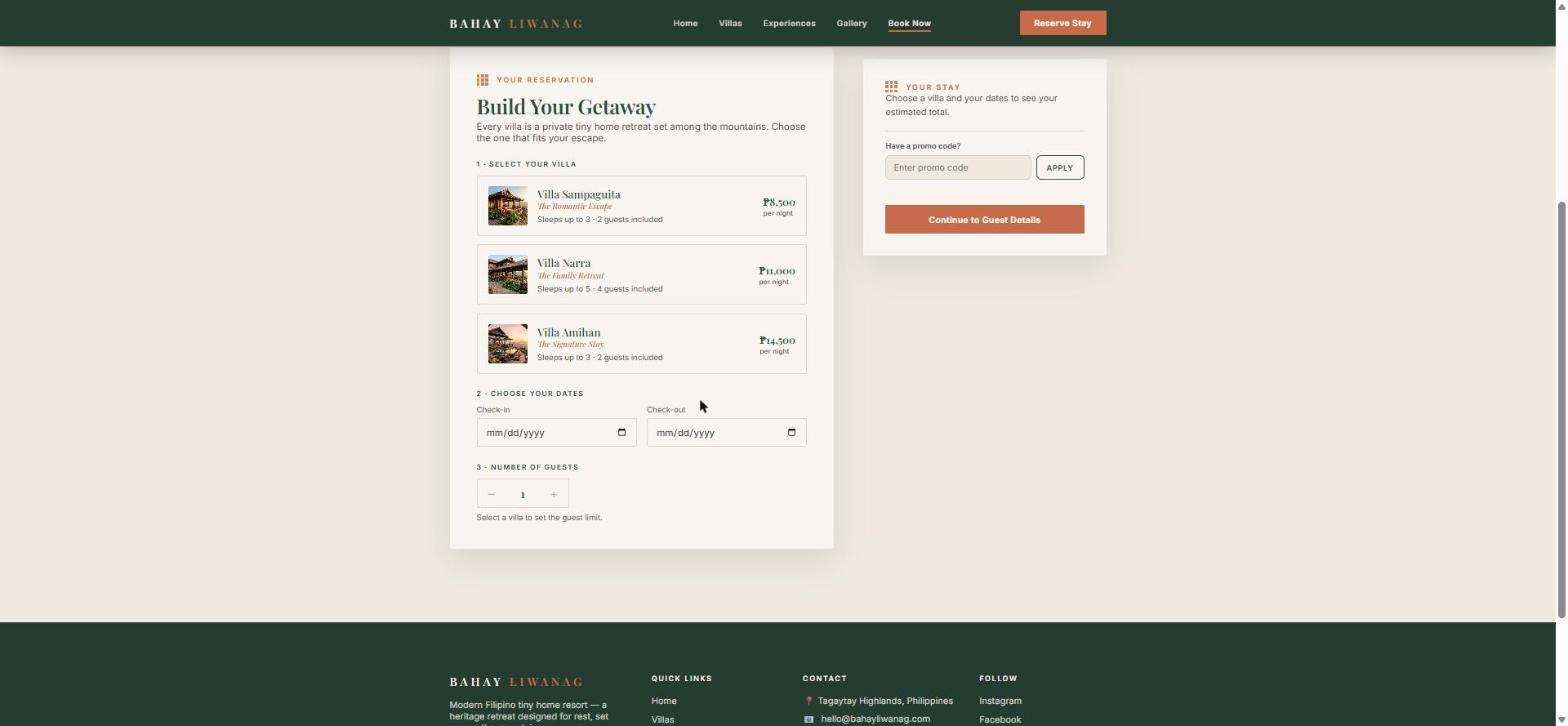
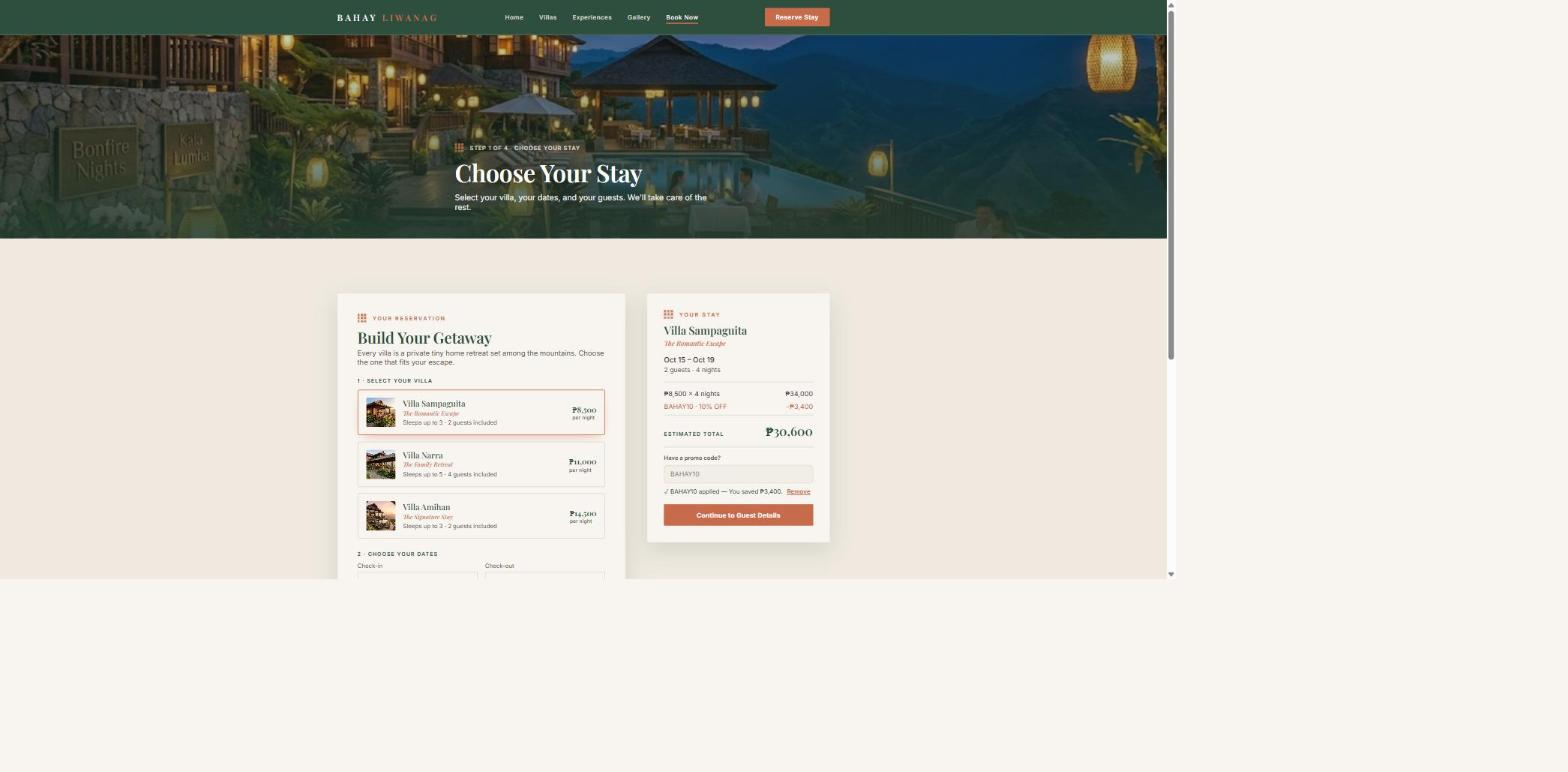
feat: refresh Bahay Liwanag case study screenshots

diff --git a/src/app/projects/bahay-liwanag/page.tsx b/src/app/projects/bahay-liwanag/page.tsx
@@ -4,7 +4,6 @@ import Navbar from "@/components/home/Navbar";
 import Footer from "@/components/home/Footer";
 import Container from "@/components/layout/Container";
 import Button from "@/components/ui/Button";
-import BrowserFrame from "@/components/ui/BrowserFrame";
 import CaseStudyHero from "@/components/case-study/CaseStudyHero";
 import CaseStudySection from "@/components/case-study/CaseStudySection";
 import ShotFigure from "@/components/case-study/ShotFigure";
@@ -86,40 +85,6 @@ const TEST_STEPS = [
   "Lead popup trigger, suppression, and the 10% Off Welcome email",
   "Responsive layout on mobile for the booking flow and the lead popup",
 ];
-
-/* ── Local building blocks ────────────────────────────────────────────────── */
-
-/** A BrowserFrame placeholder for a screenshot not yet captured. */
-function ShotPlaceholder({
-  url,
-  label,
-  note,
-  aspect = "aspect-[16/10]",
-}: {
-  url: string;
-  label: string;
-  note?: string;
-  aspect?: string;
-}) {
-  return (
-    <div className="min-w-0">
-      <BrowserFrame url={url} className="shadow-soft">
-        <div className={cx("relative w-full overflow-hidden bg-surface", aspect)}>
-          <div className="absolute inset-0 bg-[radial-gradient(circle_at_top,_rgba(163,122,180,0.14),_transparent_45%),linear-gradient(135deg,_rgba(93,66,74,0.08),_transparent_68%)]" />
-          <div className="absolute inset-0 flex items-center justify-center p-6">
-            <div className="relative z-10 max-w-md rounded-[var(--radius-md)] border border-border bg-background/75 px-4 py-3 text-center shadow-xs backdrop-blur-sm">
-              <p className="font-mono text-[0.62rem] font-semibold uppercase tracking-[0.18em] text-muted-foreground">
-                Placeholder
-              </p>
-              <p className="mt-1.5 text-sm font-semibold text-foreground">{label}</p>
-              {note && <p className="mt-1 text-xs text-foreground/70">{note}</p>}
-            </div>
-          </div>
-        </div>
-      </BrowserFrame>
-    </div>
-  );
-}
 
 /* ── Page ─────────────────────────────────────────────────────────────────── */
 
@@ -230,9 +195,9 @@ export default function BahayLiwanagCaseStudy() {
                 </p>
                 <ShotFigure
                   src="/images/bahay-liwanag/bahay-liwanag-booking-details.png"
-                  alt="Booking Details page showing the three villa cards with pricing, a date and guest picker, and a promo-code field"
-                  url="hankerism.github.io/bahay-liwanag/book-now"
-                  caption="Villa cards, pricing, dates, guest count, and the BAHAY10 promo field — live."
+                  alt="Booking Details page with Villa Sampaguita selected, dates and guest count set, and the BAHAY10 promo code applied showing a discounted total"
+                  url="lets.controlyouraudience.com/preview/HIHrGr20tLK7zGmx2Vop"
+                  caption="Villa selected, dates and guests set, BAHAY10 applied — the live pricing summary updates in real time."
                   priority
                 />
               </div>
@@ -246,7 +211,12 @@ export default function BahayLiwanagCaseStudy() {
                   <p className="mb-3 font-mono text-xs font-semibold uppercase tracking-widest text-accent-hover">
                     Step 2 · Guest Details
                   </p>
-                  <ShotPlaceholder url="bahay-liwanag/book-now" label="Guest Details Form" note="Native GHL form — screenshot pending" />
+                  <ShotFigure
+                    src="/images/bahay-liwanag/bahay-liwanag-guest-details.png"
+                    alt="Guest Details step — a native GHL form collecting first name, last name, phone, email, and a guest note, with the reservation summary alongside"
+                    url="lets.controlyouraudience.com/preview/Gi2Ai1tFZaNNATn5yifG"
+                    caption="The native GHL form — First Name, Last Name, Phone, Email, and a guest note."
+                  />
                 </div>
               </Reveal>
               <Reveal y={12} delay={90}>
@@ -254,7 +224,12 @@ export default function BahayLiwanagCaseStudy() {
                   <p className="mb-3 font-mono text-xs font-semibold uppercase tracking-widest text-accent-hover">
                     Step 3 · Demo Payment
                   </p>
-                  <ShotPlaceholder url="bahay-liwanag/book-now" label="Demo Payment Step" note="Portfolio demo — no real payment processor" />
+                  <ShotFigure
+                    src="/images/bahay-liwanag/bahay-liwanag-payment.png"
+                    alt="Demo Payment step showing a card-entry form with GCash and Maya options, a portfolio-demo disclaimer, and the recalculated stay total with BAHAY10 applied"
+                    url="lets.controlyouraudience.com/preview/941NustibgFNLGToABY3"
+                    caption="A demo checkout — Card, GCash, or Maya — labelled plainly as a portfolio demo. No real payment is processed."
+                  />
                 </div>
               </Reveal>
               <Reveal y={12} delay={180}>
@@ -262,7 +237,12 @@ export default function BahayLiwanagCaseStudy() {
                   <p className="mb-3 font-mono text-xs font-semibold uppercase tracking-widest text-accent-hover">
                     Step 4 · Confirmation
                   </p>
-                  <ShotPlaceholder url="bahay-liwanag/book-now" label="Reservation Confirmed" note="Screenshot pending" />
+                  <ShotFigure
+                    src="/images/bahay-liwanag/bahay-liwanag-confirmation.png"
+                    alt="Confirmation page reading Your Stay Is Confirmed, badged Booking Confirmed! - Demo Booking - No Real Payment, with a full booking summary and demo booking reference"
+                    url="lets.controlyouraudience.com/preview/oduOOS18zh2Na6We283L"
+                    caption="&ldquo;Booking Confirmed! — Demo Booking — No Real Payment,&rdquo; with the full booking summary and a demo reference number."
+                  />
                 </div>
               </Reveal>
             </div>
@@ -473,6 +453,22 @@ export default function BahayLiwanagCaseStudy() {
                   { label: "Welcome email sent", description: "Delivers the BAHAY10 promo code" },
                 ]}
               />
+            </Reveal>
+          </Container>
+
+          <Container size="lg" className="mt-10">
+            <Reveal y={20}>
+              <div className="min-w-0">
+                <p className="mb-3 font-mono text-xs font-semibold uppercase tracking-widest text-accent-hover">
+                  BL - 10% Off Lead Welcome Workflow
+                </p>
+                <ShotFigure
+                  src="/images/bahay-liwanag/bahay-liwanag-ghl-lead-welcome-workflow.png"
+                  alt="GoHighLevel workflow canvas for BL - 10% Off Lead Welcome, showing Form Submitted, Add Tag, and Send Email nodes, with the Draft/Publish toggle set to Draft"
+                  url="app.gohighlevel.com/workflows"
+                  caption="Form Submitted → Add Tag → Send Email → END — the Draft/Publish toggle (top right) confirms it isn&rsquo;t published yet."
+                />
+              </div>
             </Reveal>
           </Container>
 
